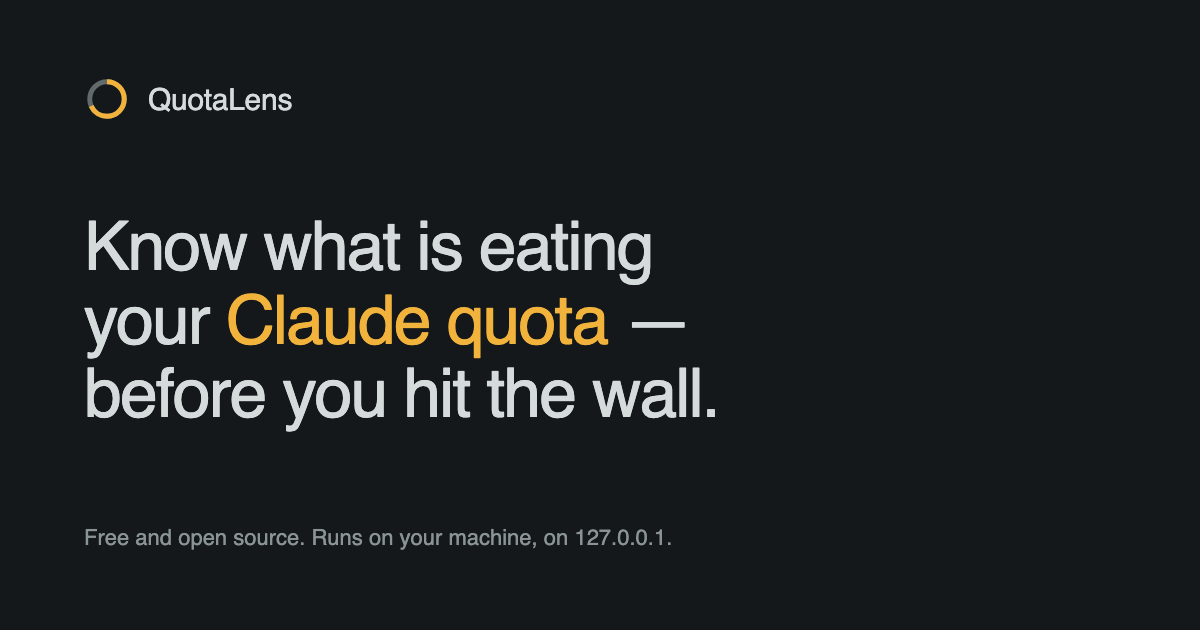
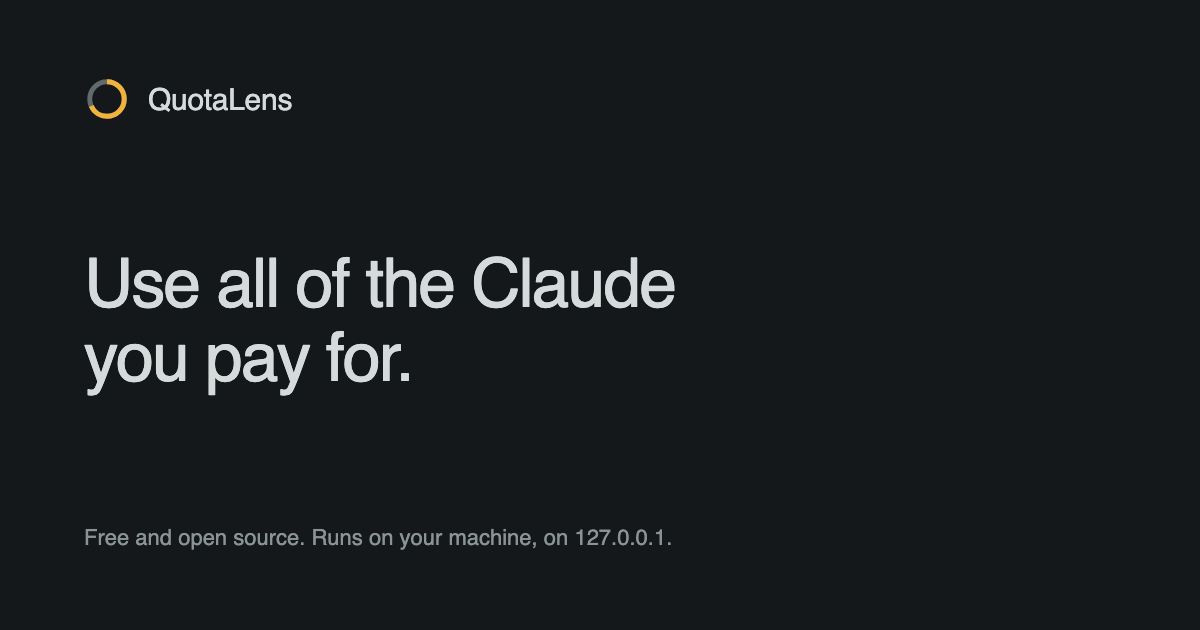
design: og-image.png follows the site's new headline; tokens.css comments lose their dashes
Re-rendered by quotalens-web/render-og.py from the home page <h1>,
"Use all of the Claude you pay for.", so sync-brand.sh stays truthful.
The five comment edits in tokens.css mirror the site's copy, which must
stay byte-identical to this file.

Claude-Session: https://claude.ai/code/session_01MJoRkNNYQ65VYWXfwceSfM

Changed region(s): [[0.0617, 0.3317, 0.5858, 0.6937]]

diff --git a/design/tokens.css b/design/tokens.css
@@ -1,4 +1,4 @@
-/* QuotaLens design tokens — "Bench"
+/* QuotaLens design tokens: "Bench"
    Dark is the default. Light applies only when the OS asks for it or the
    user toggles. Theme values use light-dark(light, dark), which follows
    `color-scheme`, so the whole palette is declared once.
@@ -30,7 +30,7 @@
   --w-med: 500;
   --w-bold: 600;
 
-  /* ── space — 4px grid ───────────────────────────────────────────── */
+  /* ── space: 4px grid ────────────────────────────────────────────── */
   --sp-0: 2px;  --sp-1: 4px;  --sp-2: 8px;  --sp-3: 12px;
   --sp-4: 16px; --sp-5: 24px; --sp-6: 32px; --sp-7: 48px;
   --row-h: 28px;        /* comfortable table row */
@@ -38,7 +38,7 @@
   --gutter: 20px;
   --maxw: 1320px;
 
-  /* ── shape — radius is capped at 3px on purpose. no shadows. ────── */
+  /* ── shape: radius is capped at 3px on purpose. no shadows. ─────── */
   --r-1: 2px;
   --r-2: 3px;
   --hair: 1px;
@@ -86,7 +86,7 @@
   --st-auth-bg:     light-dark(rgba(90,63,176,.10), rgba(167,139,250,.14));
 
   /* ── chart series ───────────────────────────────────────────────── */
-  /* Derived from Okabe–Ito, chosen for deuteranopia. Slot 1 is always the
+  /* Derived from Okabe-Ito, chosen for deuteranopia. Slot 1 is always the
      5-hour window / burn rate, so it is the same amber as the readout.
      Colour is never the only channel: --dash-N and an end-of-line label
      are mandatory, not optional. */
@@ -104,7 +104,7 @@
   --s5-soft: light-dark(rgba(163,44,106,.13), rgba(222,121,172,.15));
   --s6-soft: light-dark(rgba(95,66,168,.13),  rgba(185,160,232,.15));
 
-  --dash-1: none;        /* solid, heaviest — the hero trace */
+  --dash-1: none;        /* solid, heaviest, the hero trace */
   --dash-2: none;        /* solid, lighter                   */
   --dash-3: 7 3;
   --dash-4: 2 3;
